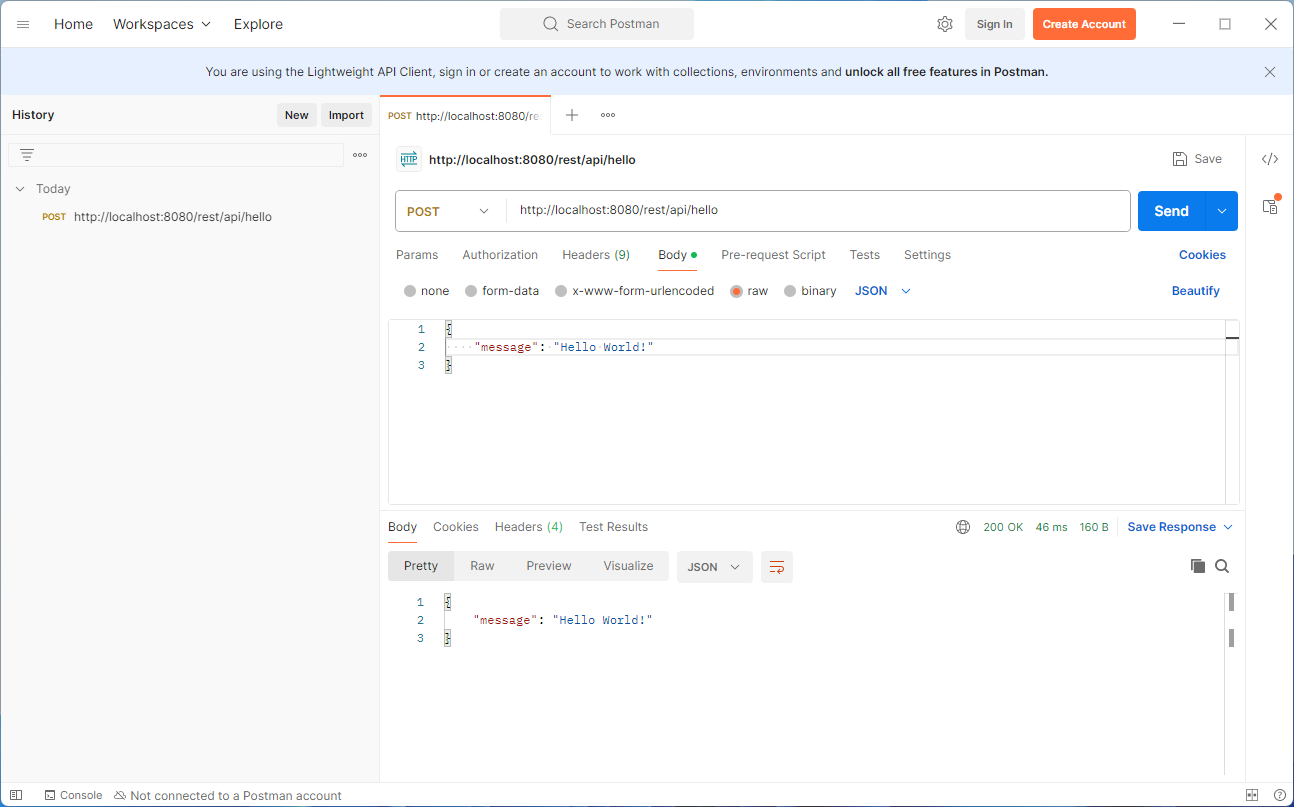
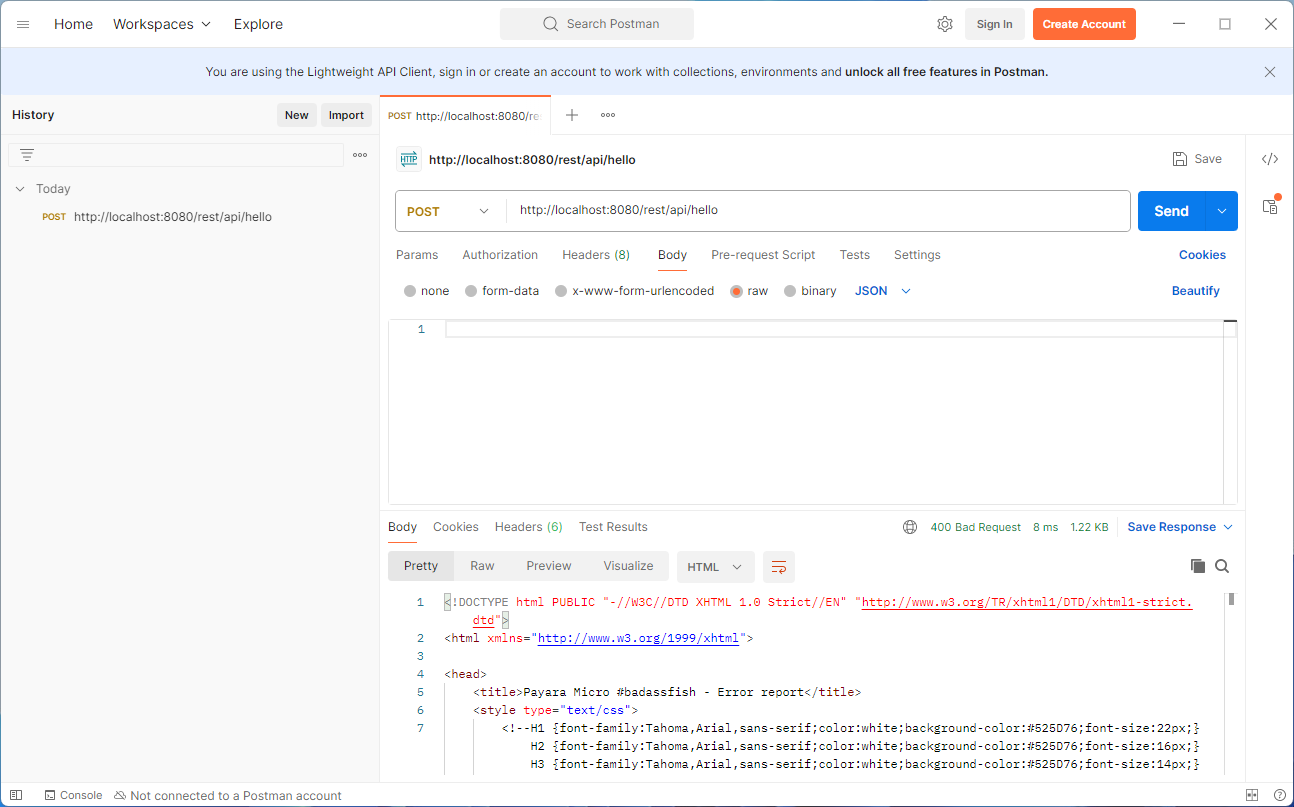
Update Readme file

diff --git a/technologies/validation/java-ee9-api-rest-helloworld-validation/README.md b/technologies/validation/java-ee9-api-rest-helloworld-validation/README.md
@@ -25,12 +25,11 @@ DESCRIPTION
 -----------
 
 ##### Goal
-The goal of this project is to present how to implement **response** with **@Consumes** annotation in a **REST API** application using **Java** programming language and **Java EE 9** framework. Application is deployed on a server **payara micro** in version 6.
+The goal of this project is to present how to implement **validation** in a **REST API** application using **Java** programming language and **Java EE 9** framework. Application is deployed on a server **payara micro** in version 6.
 
 ##### Terminology
 Terminology explanation:
-* **Response**: it's object returned to the user
-* **@Consumes**: this annotation enables setting type which should be consumed. It means type which is sent from user. For example it can be JSON
+* **Validation**: it means that REST API request is validated - it has to fullfil some rules. In this example request body can not be null and "message" also can not be null
 * **API**: Application Programming Interface is designed for communication between machines
 * **REST**: it's communication HTTP protocol with some set of rules
 * **Java EE 9**: it's Java framework which speeds up development
